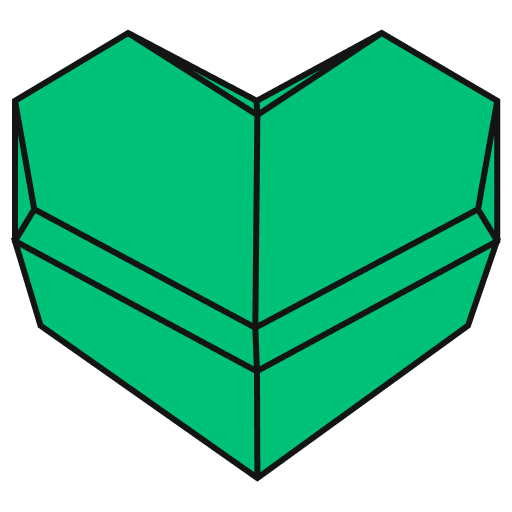
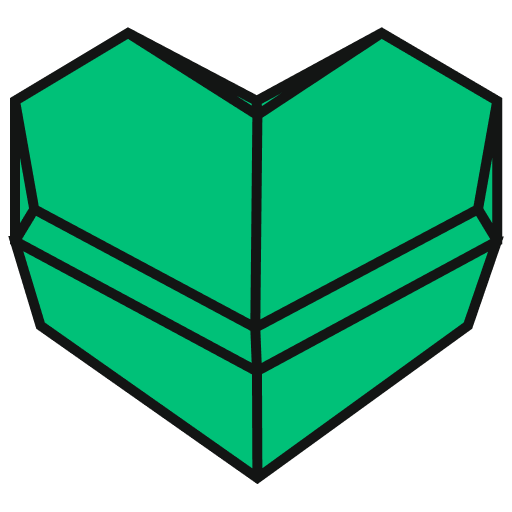
Fixed Images

Changed region(s): [[0.0, 0.0312, 1.0, 0.9375]]

diff --git a/VeNETCos.Codicon/UI/Windows/BoxWindow.xaml b/VeNETCos.Codicon/UI/Windows/BoxWindow.xaml
@@ -34,16 +34,16 @@
                 <StackPanel Panel.ZIndex="3"
                     Margin="10"
                 >
-                    <Image Margin="0,0,0,20" Source="/UI/Resources/TORAKO-ISOThicker.png"/>
-                    <Image Margin="10" Source="/UI/Resources/dashboard.png"/>
-                    <Image Margin="10" Source="/UI/Resources/stats-circular-filled-graphic.png" />
-                    <Image Margin="10" Source="/UI/Resources/heart.png" />
-                    <Image Margin="10" Source="/UI/Resources/suitcase.png" />
-                    <Image Margin="10" Source="/UI/Resources/mortarboard.png" />
-                    <Image Margin="10" Source="/UI/Resources/games.png" />
-                    <Image Margin="10" Source="/UI/Resources/fun.png" />
-                    <Image Margin="10" Source="/UI/Resources/safebox.png" />
-                    <Image Margin="10" Source="/UI/Resources/on-time.png" />
+                    <Image Margin="0,0,0,20" Source="/UI/Resources/TORAKO-ISOThicker.png" RenderOptions.BitmapScalingMode="Fant"/>
+                    <Image Margin="10" Source="/UI/Resources/dashboard.png" RenderOptions.BitmapScalingMode="Fant"/>
+                    <Image Margin="10" Source="/UI/Resources/stats-circular-filled-graphic.png" RenderOptions.BitmapScalingMode="Fant"/>
+                    <Image Margin="10" Source="/UI/Resources/heart.png" RenderOptions.BitmapScalingMode="Fant"/>
+                    <Image Margin="10" Source="/UI/Resources/suitcase.png" RenderOptions.BitmapScalingMode="Fant"/>
+                    <Image Margin="10" Source="/UI/Resources/mortarboard.png" RenderOptions.BitmapScalingMode="Fant"/>
+                    <Image Margin="10" Source="/UI/Resources/games.png" RenderOptions.BitmapScalingMode="Fant"/>
+                    <Image Margin="10" Source="/UI/Resources/fun.png" RenderOptions.BitmapScalingMode="Fant"/>
+                    <Image Margin="10" Source="/UI/Resources/safebox.png" RenderOptions.BitmapScalingMode="Fant"/>
+                    <Image Margin="10" Source="/UI/Resources/on-time.png" RenderOptions.BitmapScalingMode="Fant"/>
 
 
                 </StackPanel>

diff --git a/VeNETCos.Codicon/UI/Controls/TopBar.xaml b/VeNETCos.Codicon/UI/Controls/TopBar.xaml
@@ -17,7 +17,8 @@
                 <ColumnDefinition Width="120"/>
             </Grid.ColumnDefinitions>
             <StackPanel Orientation="Horizontal">
-                <Image Source="/UI/Controls/TORAKO-ISO.png"
+                <Image Source="/UI/Resources/TORAKO-ISOThicker.png"
+                       RenderOptions.BitmapScalingMode="Fant"
                        Stretch="Fill"
                        VerticalAlignment="Center" HorizontalAlignment="Center"/>
                 <TextBlock Text="torako" 
